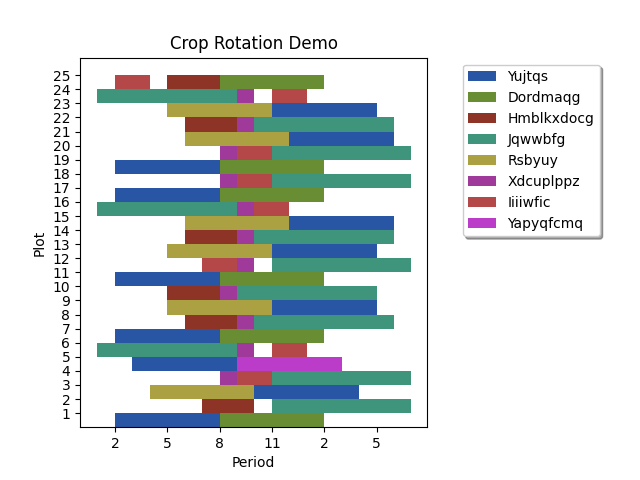
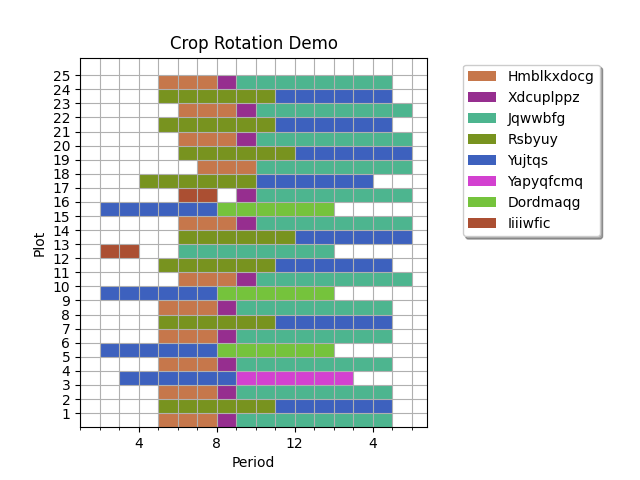
Remove grid and label options and show grid lines unconditionally.

diff --git a/crop_rotation.py b/crop_rotation.py
@@ -21,6 +21,7 @@ import sys
 from collections import defaultdict
 from itertools import combinations
 from matplotlib.colors import hsv_to_rgb
+from matplotlib.ticker import MultipleLocator
 from os.path import dirname, join
 
 from dwave.system import LeapHybridDQMSampler
@@ -331,7 +332,7 @@ class CropRotation:
     def solution(self):
         return self.dqm.map_sample(self.sampleset.first.sample)
 
-    def render_solution(self, path, show_grid_x, show_grid_y, label_all_periods):
+    def render_solution(self, path):
         """Generate a visual representation of the solution.
         """
         sample = self.solution
@@ -365,28 +366,23 @@ class CropRotation:
         ax.set_xticklabels(xticklabels)
         ax.set_yticks(list(self.plot_adjacency.keys()))
 
-        if not label_all_periods:
-            # hide a fraction of labels or they will be hard to read.
-            if len(xticklabels) > 10:
-                xticks = ax.xaxis.get_major_ticks()
-                divisor = len(xticklabels) // 5
-                for k, x in enumerate(xticklabels):
-                    if k % divisor != divisor - 1:
-                        xticks[k].set_visible(False)
+        period_divisor = max_x // 4
+        if period_divisor:
+            # hide a fraction of period labels or they will be hard to read.
+            ax.xaxis.set_major_locator(MultipleLocator(period_divisor))
+            ax.xaxis.set_minor_locator(MultipleLocator(1))
 
         # place legend to right of chart.
         box = ax.get_position()
         ax.set_position([box.x0, box.y0, box.width * 0.7, box.height])
         ax.legend(loc='upper center', bbox_to_anchor=(1.3, 1), shadow=True)
 
-        # show grid lines if requested.
-        if show_grid_x:
-            if show_grid_y:
-                plt.grid(axis='both')
-            else:
-                plt.grid(axis='x')
-        elif show_grid_y:
-            plt.grid(axis='y')
+        # show grid lines.
+        if period_divisor:
+            plt.grid(axis='x', which='both')
+        else:
+            plt.grid(axis='x')
+        plt.grid(axis='y')
 
         fig.savefig(path)
         print(f'Saved illustration of solution to {path}')
@@ -409,14 +405,8 @@ class CropRotation:
                     'LeapHybridDQMSampler.')
 @click.option('--path', type=click.File(), default=DEFAULT_PATH,
               help=f'Path to problem file.  Default is {DEFAULT_PATH!r}')
-@click.option('--show-grid-x', is_flag=True,
-              help='show grid lines on x-axis of solution illustration')
-@click.option('--show-grid-y', is_flag=True,
-              help='show grid lines on y-axis of solution illustration')
-@click.option('--label-all-periods', is_flag=True,
-              help='label all periods in solution illustration')
 @click.option('--verbose', is_flag=True)
-def main(path, show_grid_x, show_grid_y, label_all_periods, verbose):
+def main(path, verbose):
     try:
         rotation = CropRotation(*load_problem_file(path), verbose)
     except InvalidProblem as e:
@@ -425,7 +415,7 @@ def main(path, show_grid_x, show_grid_y, label_all_periods, verbose):
     rotation.build_dqm()
     rotation.solve()
     rotation.evaluate()
-    rotation.render_solution('output.png', show_grid_x, show_grid_y, label_all_periods)
+    rotation.render_solution('output.png')
 
 
 if __name__ == '__main__':
